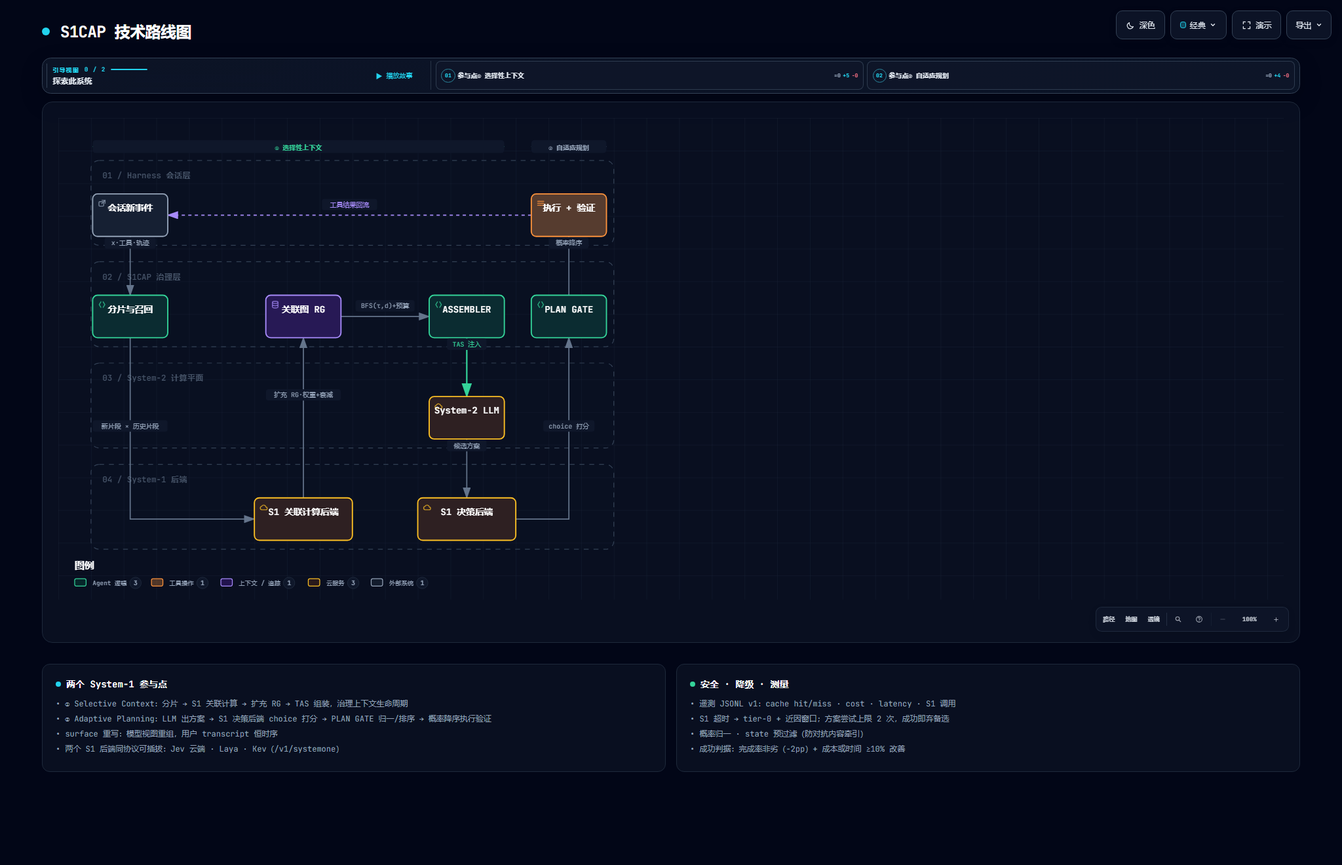
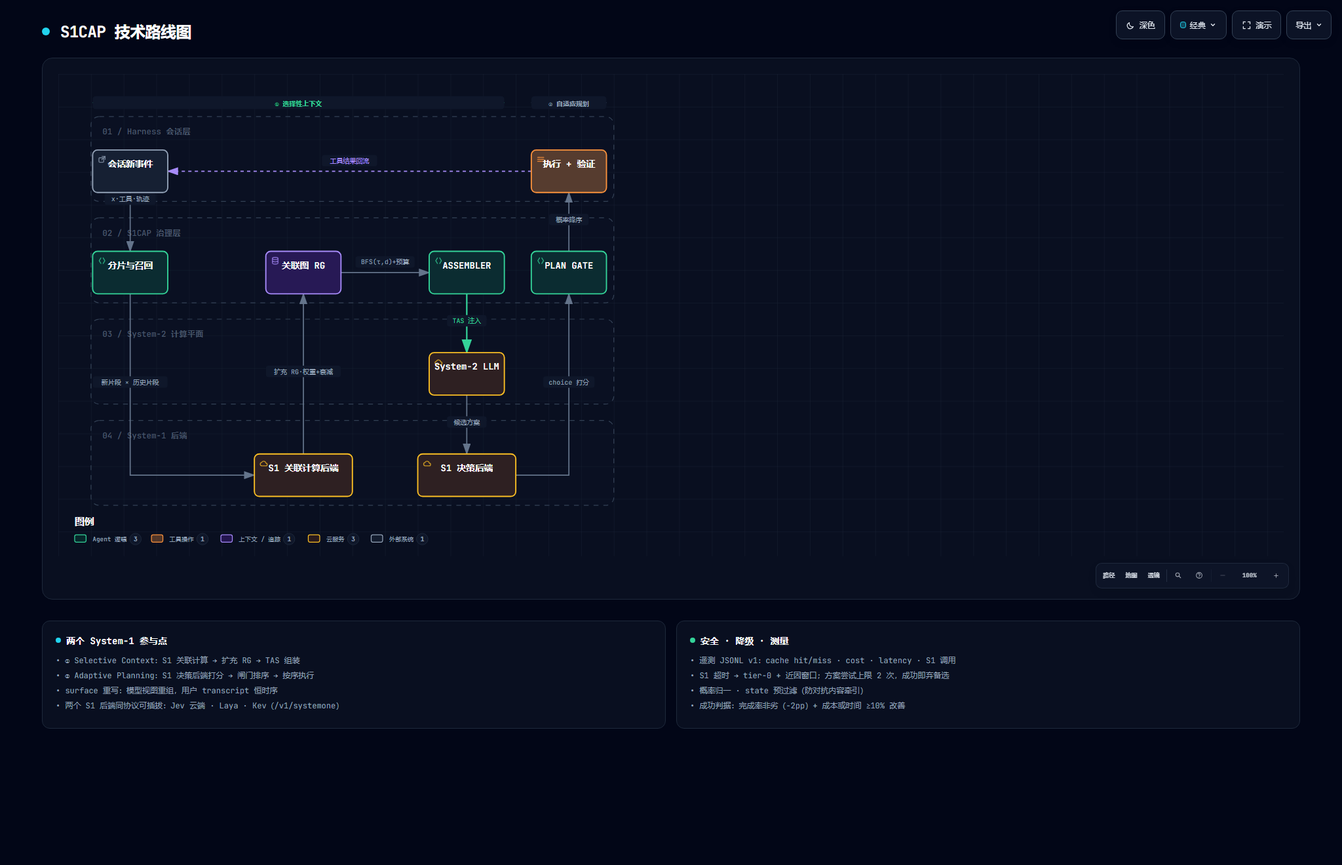
fix(figures): free vertical space + center edge labels on their runs
- remove meta.views (guided-view strip cost 61px of layout height) and shorten two
  card lines that wrapped: diagram container 478px -> 541px, SVG 1025x403 -> 1186x466 (+16%)
- labels on vertical runs were anchored to the midpoint of a degenerate sub-segment
  (routes contain zero-length jogs), landing off-centre and under the arrowhead;
  explicit labelAt at each run midpoint for e4/e5/e7/e9
  verified in-browser: all five vertical labels within 2.5px of the run centre,
  '概率降序' mask no longer intersects the arrowhead

diff --git a/docs/figures/s1cap-technical-route.html b/docs/figures/s1cap-technical-route.html
@@ -4959,7 +4959,7 @@
       </div>
     </div>
 
-    <script id="archify-guided-views-data" type="application/json">[{"id":"selective-context","label":"参与点① 选择性上下文","focus":["x-event","segrec","s1assoc","rg","assembler"],"note":"关联图召回与 TAS 组装——治理上下文生命周期"},{"id":"adaptive-planning","label":"参与点② 自适应规划","focus":["llm","plangate","s1decide","execute"],"note":"choice 概率打分与按序执行验证——治理决策优先级"}]</script>
+    <script id="archify-guided-views-data" type="application/json">[]</script>
 
     <script id="archify-i18n-data" type="application/json">{"locale":"zh-CN","messages":{"viewer.kind.frontend":"前端","viewer.kind.backend":"后端","viewer.kind.database":"数据库","viewer.kind.cloud":"云服务","viewer.kind.security":"安全","viewer.kind.messagebus":"消息总线","viewer.kind.external":"外部系统","viewer.kind.neutral":"中性","viewer.kind.node":"节点","viewer.kind.start":"开始","viewer.kind.active":"活动","viewer.kind.waiting":"等待","viewer.kind.decision":"决策","viewer.kind.success":"成功","viewer.kind.failure":"失败","viewer.toolbar.actions":"图表操作","viewer.theme.toggle.title":"切换主题（T）","viewer.theme.toggle":"切换颜色主题","viewer.theme.dark":"深色","viewer.theme.light":"浅色","viewer.preset.choose.title":"选择视觉风格（S 循环切换）","viewer.preset.choose":"选择视觉风格","viewer.preset.style":"风格","viewer.preset.menu":"视觉风格","viewer.preset.identity":"视觉表达","viewer.preset.cycles":"S 循环切换","viewer.preset.classic":"经典","viewer.preset.classic.short":"经典","viewer.preset.classic.hint":"稳定的技术默认风格","viewer.preset.flow":"信号流","viewer.preset.flow.short":"流动","viewer.preset.flow.hint":"突出动态流向","viewer.preset.blueprint":"蓝图","viewer.preset.blueprint.hint":"工程评审","viewer.preset.editorial":"编辑风格","viewer.preset.editorial.hint":"适合发布与上线说明","viewer.preset.badge.signalFlow":"信号流","viewer.preset.badge.blueprint":"蓝图 / 修订 01","viewer.preset.badge.editorial":"编辑风格 / 现场笔记","viewer.preset.badge.editorialPlate":"ARCHIFY / 图版 04","viewer.preset.current":"当前视觉风格：{style}。选择视觉风格","viewer.motion.live":"动态","viewer.motion.still":"静态","viewer.motion.pause":"暂停动效","viewer.motion.resume":"恢复动效","viewer.motion.reduced":"已根据减少动态效果偏好暂停动效","viewer.motion.hidden":"页面不可见时已暂停动效","viewer.motion.yielding":"暂停动效；当前让位于{owner}","viewer.motion.yielding.title":"动态预览已启用 · 正在让位于{owner}","viewer.owner.story":"引导故事","viewer.owner.chapter":"当前章节","viewer.owner.chapterPreview":"章节差异预览","viewer.owner.handoff":"章节交接","viewer.owner.route":"路径探测","viewer.owner.lens":"语义透镜","viewer.owner.relationship":"关系预览","viewer.owner.intent":"意图追踪","viewer.owner.focus":"语义聚焦","viewer.owner.legend":"图例预览","viewer.owner.reader":"读者交互","viewer.present.enter":"进入演示模式","viewer.present.enter.title":"演示模式（F）","viewer.present.exit":"退出演示模式","viewer.present.exit.title":"退出演示模式（F 或 Escape）","viewer.present.present":"演示","viewer.present.exit.label":"退出","viewer.export.button":"导出","viewer.export.button.title":"导出图表（E）","viewer.export.diagram":"导出图表","viewer.export.menu":"导出","viewer.export.subtitle":"便携、整洁的输出","viewer.export.share":"分享","viewer.export.shareCard":"分享卡片","viewer.export.routeShareCard":"路径分享卡片","viewer.export.reachShareCard":"可达范围分享卡片","viewer.export.copyShareCard":"复制分享卡片","viewer.export.copyDiagram":"复制图表","viewer.export.clipboardPng":"复制 PNG 到剪贴板","viewer.export.raster":"位图","viewer.export.image":"图像","viewer.export.lossless":"无损图像","viewer.export.compact":"紧凑图像","viewer.export.modern":"现代图像格式","viewer.export.vectorMotion":"矢量与动效","viewer.export.vectorMotion.heading":"矢量与动效","viewer.export.editable":"可编辑矢量图","viewer.export.motion6s":"6 秒动效","viewer.export.unsupported":"当前浏览器不支持","viewer.export.clipboardUnsupported":"当前浏览器不支持写入图片剪贴板","viewer.export.clipboardUnsupported.period":"当前浏览器不支持写入图片剪贴板。","viewer.export.clipboardUnsupported.short":"此浏览器不支持写入图片剪贴板。","viewer.export.motionUnavailable":"当前浏览器无法录制动效","viewer.export.webmUnavailable":"当前浏览器不支持 WebM","viewer.export.failed":"导出失败：{message}","viewer.export.unknownVariant":"未知的分享卡片类型：{variant}","viewer.export.routeRequired":"请先追踪路径，再导出路径分享卡片","viewer.export.reachRequired":"请先追踪编写可达范围，再导出可达范围分享卡片","viewer.export.unknown":"未知错误","viewer.export.routeFailed":"路径分享卡片导出失败：{message}","viewer.export.reachFailed":"可达范围分享卡片导出失败：{message}","viewer.export.copyFailed":"复制失败：{message}","viewer.export.copiedPng":"已将 PNG 复制到剪贴板","viewer.export.copiedShare":"已复制分享卡片","viewer.export.downloadedShare":"已下载分享卡片","viewer.export.downloadedRoute":"已下载路径分享卡片","viewer.export.downloadedReach":"已下载可达范围分享卡片","viewer.export.downloadedWebm":"已下载 WebM","viewer.export.recording":"正在录制 6 秒动效…","viewer.export.card.routeSummary.one":"路径：{source} → {target} · {count} 个有向跳转","viewer.export.card.routeSummary.other":"路径：{source} → {target} · {count} 个有向跳转","viewer.export.card.reachSummary":"从{origin}开始的编写{direction} · {nodes} · {links} · 最深 {hops}","viewer.export.card.node.one":"{count} 个节点","viewer.export.card.node.other":"{count} 个节点","viewer.export.card.link.one":"{count} 条连接","viewer.export.card.link.other":"{count} 条连接","viewer.export.card.hop.one":"{count} 跳","viewer.export.card.hop.other":"{count} 跳","viewer.export.card.routeBadge":"ARCHIFY · 路径 · {hops}","viewer.export.card.reachBadge":"ARCHIFY · {direction}可达范围","viewer.export.card.defaultBadge":"ARCHIFY · {preset} · {theme}","viewer.export.direction.upstream":"上游","viewer.export.direction.downstream":"下游","viewer.export.error.canvasUnavailable":"无法为{label}使用画布","viewer.export.error.contextUnavailable":"无法为{label}创建二维画布上下文","viewer.export.error.toBlobUnavailable":"{label}无法使用 canvas.toBlob","viewer.export.error.toBlobNull":"{label}的 canvas.toBlob 未返回数据","viewer.export.error.variantsCombined":"无法同时组合多种分享卡片类型","viewer.export.error.viewerState":"分享卡片导出无法移除临时 Viewer 状态","viewer.export.error.routeState":"路径卡片导出无法安全保留已解析路径","viewer.export.error.reachState":"可达范围卡片导出无法安全保留编写的可达范围","viewer.export.error.webmRequirements":"WebM 动效导出需要追踪动画及浏览器 MediaRecorder 支持","viewer.export.error.mediaRecorder":"MediaRecorder 录制失败","viewer.export.error.emptyWebm":"MediaRecorder 生成了空的 WebM","viewer.export.error.webmBackground":"无法为 WebM 导出加载 SVG 背景","viewer.guided.region":"图表引导视图","viewer.guided.previous":"上一个引导视图","viewer.guided.previous.title":"上一个引导视图（[）","viewer.guided.next":"下一个引导视图","viewer.guided.next.title":"下一个引导视图（]）","viewer.guided.views":"引导视图","viewer.guided.explore":"探索此系统","viewer.guided.intro":"沿精选路径逐步查看，而不改变源图表。","viewer.guided.trail":"故事轨迹","viewer.guided.beat":"节点","viewer.guided.nextBeat":"下一步","viewer.guided.play":"播放引导故事","viewer.guided.play.title":"播放引导故事（P）","viewer.guided.pause":"暂停引导故事","viewer.guided.pause.title":"暂停引导故事（P）","viewer.guided.replay":"重播引导故事","viewer.guided.replay.title":"重播引导故事（P）","viewer.guided.playStory":"播放故事","viewer.guided.pauseStory":"暂停","viewer.guided.replayStory":"重播故事","viewer.guided.motionUnavailable":"静态模式下无法播放故事","viewer.guided.enableMotion":"切换为动态模式以播放引导故事","viewer.guided.selectBeatLink":"选择故事节点以复制其精确链接","viewer.guided.copyMoment":"复制此刻","viewer.guided.momentCopied":"已复制时刻链接","viewer.guided.momentCopyFailed":"无法复制故事时刻链接","viewer.guided.copied":"已复制","viewer.guided.copyFailed":"复制失败","viewer.guided.showAll":"显示全部","viewer.guided.showAll.aria":"显示完整图表","viewer.guided.chapters":"故事章节","viewer.guided.storyTrail":"{label}的故事轨迹：{count} 个节点","viewer.guided.chapter.open":"打开第 {index}/{total} 章：{label}，{count} 个停靠点","viewer.guided.chapter.current":"当前第 {index}/{total} 章：{label}，{count} 个停靠点","viewer.guided.chapter.selectedNodes":"已选择 {count} 个节点","viewer.guided.chapter.stops":"{count} 个停靠点","viewer.guided.chapter.stop.one":"{count} 个停靠点","viewer.guided.chapter.stop.other":"{count} 个停靠点","viewer.guided.chapter.current.title":"{label} — 当前章节，{count} 个停靠点","viewer.guided.chapter.delta.expanded":"{stay} 个保留，{enter} 个进入，{leave} 个离开","viewer.guided.chapter.delta.aria":"打开第 {index}/{total} 章：{label}。章节聚焦差异：{delta}","viewer.guided.chapter.delta.title":"{label} — 章节聚焦 {delta}","viewer.guided.handoff":"{from} → {to} · 经由{label}","viewer.guided.share.chapter":"章节 {index} / {total}","viewer.guided.share.initial":"章节 01 / 01","viewer.guided.share.default":"引导章节","viewer.guided.state.ready":"就绪","viewer.guided.state.playing":"播放中","viewer.guided.state.settled":"已完成","viewer.guided.state.paused":"已暂停","viewer.guided.state.pinned":"已固定","viewer.guided.state.still":"静态","viewer.guided.share.step":"步骤 {index} / {total} · {label}","viewer.guided.share.staticMoment":"{step} · 静态时刻","viewer.guided.share.complete":"{count} 个步骤已完成 · {note}","viewer.guided.share.settled":"路径已稳定，可供阅读。","viewer.guided.share.staticPath":"{count} 个步骤 · 静态路径","viewer.guided.share.ready":"{count} 个步骤 · 就绪","viewer.guided.share.aria":"{state}，第 {index}/{total} 章：{label}。{beat}。{route}","viewer.guided.beat.start":"节点 {index} / {total} · {label} · 起点","viewer.guided.beat.forward":"节点 {index} / {total} · {from} → {to}","viewer.guided.beat.reverse":"节点 {index} / {total} · {from} → {to} · 反向编写连接","viewer.guided.beat.multiple":"节点 {index} / {total} · {from} ⇄ {to} · {count} 条编写连接","viewer.guided.beat.group":"节点 {index} / {total} · {from} · {to} · 分组 · 无直接连接","viewer.guided.beat.aria.prefix":"故事节点 {index}/{total}：{label}。","viewer.guided.beat.aria.start":"起点。","viewer.guided.beat.aria.forward":"从{from}经一条正向编写关系到达。","viewer.guided.beat.aria.reverse":"从{from}出发；编写关系实际由{to}指向{from}。","viewer.guided.beat.aria.multiple":"从{from}经 {count} 条编写关系到达；不使用任意动效。","viewer.guided.beat.aria.group":"与{from}分组展示，没有直接编写关系。","viewer.guided.caption.start":"起点","viewer.guided.caption.grouped":"分组过渡 · 无直接编写连接","viewer.guided.caption.more":" +另外 {count} 条","viewer.guided.caption.reverse":"反向编写关系","viewer.guided.caption.relationships":"{count} 条编写关系","viewer.guided.caption.relationship":"编写关系","viewer.guided.caption.direction":"编写方向：{from} → {to}","viewer.guided.caption.starting":"编写起点","viewer.guided.beatLink":"复制当前故事时刻链接：第 {index}/{total} 个节点：{label}","viewer.guided.noStory":"此图表没有编写引导故事。","viewer.guide.eyebrow":"图表指南","viewer.guide.close":"关闭图表指南","viewer.guide.inspecting":"正在检查已编译语义","viewer.guide.actions":"图表探索操作","viewer.guide.find":"查找任意节点","viewer.guide.find.hint":"搜索标签、职责、类型和稳定 ID。","viewer.guide.route":"追踪路径","viewer.guide.route.aria":"追踪有向路径","viewer.guide.route.hint":"查看两个语义节点如何按编写方向连接。","viewer.guide.map":"查看完整系统","viewer.guide.map.hint":"打开带实时视口和稳定节点的语义雷达。","viewer.guide.lens":"比较语义类型","viewer.guide.lens.hint":"统计角色、显示流量并比较直接编写的连接。","viewer.guide.story":"播放引导故事","viewer.guide.story.hint":"浏览已编写的章节和真实关系。","viewer.guide.present":"进入演示模式","viewer.guide.present.hint":"让实时图表占满视口，同时不改变导出。","viewer.guide.shortcuts":"其他键盘快捷键","viewer.guide.shortcut.export":"导出","viewer.guide.shortcut.theme":"主题","viewer.guide.shortcut.style":"风格","viewer.guide.shortcut.reset":"重置","viewer.guide.shortcut.zoomIn":"放大","viewer.guide.shortcut.zoomOut":"缩小","viewer.guide.shortcut.close":"关闭","viewer.guide.facts":"{nodes} · {relationships} · {views}","viewer.guide.fact.node.one":"{count} 个语义节点","viewer.guide.fact.node.other":"{count} 个语义节点","viewer.guide.fact.relationship.one":"{count} 条关系","viewer.guide.fact.relationship.other":"{count} 条关系","viewer.guide.fact.view.one":"{count} 个引导视图","viewer.guide.fact.view.other":"{count} 个引导视图","viewer.guide.story.available.one":"浏览 {count} 个已编写章节及其真实关系。","viewer.guide.story.available.other":"浏览 {count} 个已编写章节及其真实关系。","viewer.guide.story.unavailable":"此图表没有编写引导故事。","viewer.guide.open":"打开图表指南","viewer.guide.noStory":"此图表没有编写引导故事。","viewer.finder.title":"查找节点","viewer.finder.close":"关闭节点查找器","viewer.finder.placeholder":"搜索标签或 ID","viewer.finder.search":"搜索图表节点","viewer.finder.results":"图表节点","viewer.finder.empty":"没有匹配的节点","viewer.finder.result.focus":"聚焦{label}","viewer.finder.result.routeStart":"选择{label}作为路径起点","viewer.finder.result.routeTarget":"选择{label}作为路径终点，{links}","viewer.finder.status.empty":"没有匹配的节点","viewer.finder.status.count.one":"{count} 个匹配节点","viewer.finder.status.count.other":"{count} 个匹配节点","viewer.finder.noun.nodes":"个节点","viewer.finder.link.one":"{count} 条连接","viewer.finder.link.other":"{count} 条连接","viewer.finder.result.focus.one":"聚焦{label}，{count} 条相关连接","viewer.finder.result.focus.other":"聚焦{label}，{count} 条相关连接","viewer.finder.status.filtered":"{visible}/{available} {noun}","viewer.finder.status.all":"{available} {noun}","viewer.passport.eyebrow":"语义护照","viewer.passport.metadata":"节点元数据","viewer.passport.evidence":"已验证的源代码证据","viewer.passport.verified":"已验证来源","viewer.passport.reach":"编写可达范围","viewer.passport.reach.trace":"追踪编写的可达性","viewer.passport.upstream":"上游","viewer.passport.downstream":"下游","viewer.passport.upstream.trace":"追踪上游编写可达性","viewer.passport.downstream.trace":"追踪下游编写可达性","viewer.passport.close":"关闭语义护照","viewer.passport.copy":"复制链接","viewer.passport.copy.focus":"复制聚焦节点的链接","viewer.passport.relations":"关系","viewer.passport.relations.show":"显示关联关系","viewer.passport.relations.hide":"隐藏关联关系","viewer.passport.relations.list":"关联关系","viewer.passport.copyRelation":"复制关系","viewer.passport.copyNode":"复制节点","viewer.passport.copyPinned":"复制固定关系的链接","viewer.passport.copySource":"复制来源节点的链接","viewer.passport.copy.focused.success":"已复制聚焦节点链接","viewer.passport.copy.pinned.success":"已复制固定关系链接","viewer.passport.copy.focused.failed":"无法复制聚焦节点链接","viewer.passport.copy.pinned.failed":"无法复制固定关系链接","viewer.passport.relationship.none":"没有关联关系","viewer.passport.relationship.count.one":"{count} 条关系","viewer.passport.relationship.count.other":"{count} 条关系","viewer.passport.relationship.show.one":"显示 {count} 条关联关系","viewer.passport.relationship.show.other":"显示 {count} 条关联关系","viewer.passport.relationship.summary":"{out} 条出向 · {in} 条入向{loops}","viewer.passport.relationship.loops":" · {count} 条自环","viewer.passport.relationship.explorer":"直接关系浏览器","viewer.passport.relationship.help":"使用方向键浏览关系。按 Enter 或空格键固定详情；按 Escape 清除。","viewer.passport.relationship.loopsBack":"回环","viewer.passport.relationship.connectsTo":"连接到","viewer.passport.relationship.connectsFrom":"连接自","viewer.passport.relationship.pinned":"已固定关系 · {from} → {to} · {label}","viewer.passport.relationship.inspect":"检查第 {index}/{total} 条关系：{from} 到 {to}，{label}。按 Enter 查看详情。","viewer.passport.relationship.group.out":"出向","viewer.passport.relationship.group.in":"入向","viewer.passport.relationship.group.loop":"自环","viewer.passport.relationship.row":"{group}：{relationship}，{neighbor}","viewer.passport.relationship.direction.out":"出 →","viewer.passport.relationship.direction.in":"← 入","viewer.passport.relationship.direction.loop":"自环","viewer.passport.sourceCount.one":"{count} 个已验证来源引用","viewer.passport.sourceCount.other":"{count} 个已验证来源引用","viewer.passport.sourceMarker":"来源","viewer.passport.beacon.one":"{count} 个已验证来源；聚焦此节点以检查","viewer.passport.beacon.other":"{count} 个已验证来源；聚焦此节点以检查","viewer.passport.repository.open":"打开已验证的仓库修订版本 {revision}","viewer.passport.source.open":"打开修订版本 {revision} 中已验证的来源 {path}","viewer.passport.source.openLink":"打开 ↗","viewer.passport.reach.upstream.one":"追踪 {count} 个上游编写节点","viewer.passport.reach.upstream.other":"追踪 {count} 个上游编写节点","viewer.passport.reach.downstream.one":"追踪 {count} 个下游编写节点","viewer.passport.reach.downstream.other":"追踪 {count} 个下游编写节点","viewer.passport.reach.noUpstream":"没有上游编写节点","viewer.passport.reach.noDownstream":"没有下游编写节点","viewer.passport.reach.status":"{direction} · {nodes} 个节点 · {links} 条连接 · 最深 {hops} 跳","viewer.route.eyebrow":"路径探测","viewer.route.start":"选择起点节点","viewer.route.start.find":"查找起点","viewer.route.start.find.aria":"查找路径起点","viewer.route.copy":"复制链接","viewer.route.copy.aria":"复制已追踪路径的链接","viewer.route.clear":"清除","viewer.route.clear.aria":"清除路径探测","viewer.route.traced":"已追踪路径","viewer.route.pickTwo":"在图表中选择两个语义节点","viewer.route.pickOne":"在图表中选择一个语义节点","viewer.route.controls":"路径旅程控制","viewer.route.previous":"上一个路径位置","viewer.route.play":"播放路径旅程","viewer.route.pause":"暂停路径旅程","viewer.route.replay":"重播路径旅程","viewer.route.next":"下一个路径位置","viewer.route.journey":"旅程","viewer.route.pause.label":"暂停","viewer.route.replay.label":"重播","viewer.route.overview":"总览","viewer.route.overview.aria":"显示完整路径总览","viewer.route.instructions":"先选择来源，再选择目标；方向很重要。","viewer.route.destination":"选择从{label}出发的目标","viewer.route.destination.find":"查找目标","viewer.route.destination.find.aria":"查找可达的路径目标","viewer.route.differentDestination":"选择其他目标","viewer.route.distinct":"一条路径需要两个不同的语义节点。","viewer.route.unreachable":"没有通往{label}的有向路径","viewer.route.unreachable.detail":"从{source}无法到达{target}。请选择高亮的目标。","viewer.route.start.instructions":"选择来源。下一步只会显示有向可达的目标。","viewer.route.copy.success":"已复制路径链接","viewer.route.copy.failed":"无法复制路径链接","viewer.route.position":"路径位置 {index}/{total}：{label}","viewer.route.step":"第 {index}/{total} 步 · {phase} · {label}","viewer.route.motionRequired":"自动旅程需要动态模式","viewer.route.trigger.clear":"清除已追踪路径","viewer.route.overview.status":"{nodes} · {hops} · 最短编写路径","viewer.route.overview.node.one":"{count} 个节点","viewer.route.overview.node.other":"{count} 个节点","viewer.route.overview.hop.one":"{count} 个有向跳转","viewer.route.overview.hop.other":"{count} 个有向跳转","viewer.route.phase.playing":"播放中","viewer.route.phase.complete":"已完成","viewer.route.phase.inspecting":"检查中","viewer.route.destination.count.one":"有 {count} 个有向目标可用。请选择高亮节点。","viewer.route.destination.count.other":"有 {count} 个有向目标可用。请选择高亮节点。","viewer.route.noOutgoing":"此处没有可用的出向路径。请清除后选择其他来源。","viewer.route.result.title":"{source} 到 {target}","viewer.route.finder.source.title":"选择路径起点","viewer.route.finder.source.placeholder":"搜索路径来源","viewer.route.finder.source.empty":"没有匹配的路径来源","viewer.route.finder.source.results":"可作为路径起点的节点","viewer.route.finder.source.noun":"个路径来源","viewer.route.finder.source.badge":"起点","viewer.route.finder.target.title":"从{label}出发的目标","viewer.route.finder.target.placeholder":"搜索可达目标","viewer.route.finder.target.empty":"没有匹配的可达目标","viewer.route.finder.target.results":"可达路径目标","viewer.route.finder.target.noun":"个可达目标","viewer.route.hop.one":"{count} 跳","viewer.route.hop.other":"{count} 跳","viewer.lens.eyebrow":"语义透镜","viewer.lens.title":"比较系统角色","viewer.lens.close":"关闭语义透镜","viewer.lens.instruction":"最多选择两种语义类型。选择一种可显示其真实流量；选择两种只比较直接编写的关系。","viewer.lens.kinds":"语义类型","viewer.lens.choose":"选择一种类型以检查其节点和相连关系。","viewer.lens.copy":"复制语义透镜链接","viewer.lens.clear":"清除语义透镜","viewer.lens.open":"打开语义透镜","viewer.lens.openActive":"打开当前语义透镜","viewer.lens.legend":"语义图例","viewer.lens.legend.inspect.one":"检查{label}，{count} 个节点","viewer.lens.legend.inspect.other":"检查{label}，{count} 个节点","viewer.lens.kind.count.one":"{label}，{count} 个节点","viewer.lens.kind.count.other":"{label}，{count} 个节点","viewer.lens.compare.one":"{first} → {second}：{forward} · {second} → {first}：{reverse} · 共 {count} 条直接关系","viewer.lens.compare.other":"{first} → {second}：{forward} · {second} → {first}：{reverse} · 共 {count} 条直接关系","viewer.lens.single":"{nodes} · {relationships} · 已连接节点保持可见","viewer.lens.node.one":"{count} 个{label}节点","viewer.lens.node.other":"{count} 个{label}节点","viewer.lens.relationship.one":"{count} 条相连关系","viewer.lens.relationship.other":"{count} 条相连关系","viewer.radar.title":"语义雷达","viewer.radar.building":"正在构建总览","viewer.radar.openFull":"打开完整语义雷达","viewer.radar.open":"打开雷达","viewer.radar.close":"关闭语义雷达","viewer.radar.surface":"图表总览。点击节点进行聚焦，或使用方向键平移。","viewer.radar.click":"点击节点","viewer.radar.drag":"拖动平移","viewer.radar.space":"语义雷达需要更多地图可见空间。","viewer.radar.nodes":"语义图表雷达节点","viewer.radar.focus":"从语义雷达聚焦{label}","viewer.radar.status":"{count} 个节点 · {viewport}","viewer.radar.fullMap":"{count} 个节点 · 完整地图","viewer.radar.compacted":"已收紧雷达，避免遮挡语义护照或地图控件。","viewer.radar.cancelWaiting":"取消等待更多地图空间的语义雷达","viewer.radar.needsSpace":"语义雷达需要更多可见地图空间","viewer.radar.viewport.full":"完整地图","viewer.radar.viewport.width":"宽度 {percent}%","viewer.radar.viewport.scale":"视口 {percent}%","viewer.nav.controls":"图表视图控制","viewer.nav.route":"追踪有向路径","viewer.nav.route.title":"追踪路径（R）","viewer.nav.route.short":"路径","viewer.nav.radar":"打开语义雷达","viewer.nav.radar.title":"语义雷达（M）","viewer.nav.radar.short":"地图","viewer.nav.lens":"打开语义透镜","viewer.nav.lens.title":"语义透镜（L）","viewer.nav.lens.short":"透镜","viewer.nav.find":"查找节点","viewer.nav.find.title":"查找节点（/）","viewer.nav.guide":"打开图表指南","viewer.nav.guide.title":"图表指南（?）","viewer.nav.zoomOut":"缩小","viewer.nav.zoomOut.title":"缩小（-）","viewer.nav.reset":"重置图表视图","viewer.nav.reset.title":"重置视图（0）","viewer.nav.read":"阅读","viewer.nav.zoomIn":"放大","viewer.nav.zoomIn.title":"放大（+）","viewer.nav.camera":"{hint}。重置图表视图","viewer.nav.camera.title":"{semantic}{hint} · 重置视图（0）","viewer.nav.camera.semantic":"语义相机已启用 · ","viewer.nav.level.map":"概览","viewer.nav.level.read":"阅读","viewer.nav.level.full":"完整","viewer.nav.level.auto":"自动","viewer.nav.detail.map":"放大以显示关系标签和节点上下文","viewer.nav.detail.read":"再次放大以显示标签和注释","viewer.nav.detail.full":"完整图表详情","viewer.intent.summary":"{label}。{out} 条出向，{in} 条入向{loops}。共 {total} 条连接。按 Enter 查看详情。","viewer.intent.loops":"，{count} 条自环","viewer.common.copied":"已复制","viewer.common.copyFailed":"复制失败","viewer.common.copyLink":"复制链接","viewer.common.clear":"清除","viewer.common.close":"关闭"}}</script>
     <div class="guided-views no-print" id="guided-views" hidden aria-label="图表引导视图">
@@ -5174,24 +5174,24 @@
           <text x="400" y="233" class="t-muted" font-size="8" text-anchor="middle">BFS(τ,d)+预算</text>
         </g>
         <g data-detail="context" data-edge-from="assembler" data-edge-to="llm" data-edge-label="TAS 注入" data-edge-key="3" data-edge-id="e4">
-          <rect x="475.8" y="270" width="48.4" height="14" rx="3" class="c-mask"/>
-          <text x="500" y="280" class="t-backend" font-size="8" text-anchor="middle">TAS 注入</text>
+          <rect x="475.8" y="295" width="48.4" height="14" rx="3" class="c-mask"/>
+          <text x="500" y="305" class="t-backend" font-size="8" text-anchor="middle">TAS 注入</text>
         </g>
         <g data-detail="context" data-edge-from="llm" data-edge-to="s1decide" data-edge-label="候选方案" data-edge-key="4" data-edge-id="e5">
-          <rect x="475.8" y="394" width="48.4" height="14" rx="3" class="c-mask"/>
-          <text x="500" y="404" class="t-muted" font-size="8" text-anchor="middle">候选方案</text>
+          <rect x="475.8" y="419" width="48.4" height="14" rx="3" class="c-mask"/>
+          <text x="500" y="429" class="t-muted" font-size="8" text-anchor="middle">候选方案</text>
         </g>
         <g data-detail="context" data-edge-from="plangate" data-edge-to="execute" data-edge-label="概率降序" data-edge-key="5" data-edge-id="e7">
-          <rect x="600.8" y="146" width="48.4" height="14" rx="3" class="c-mask"/>
-          <text x="625" y="156" class="t-muted" font-size="8" text-anchor="middle">概率降序</text>
+          <rect x="600.8" y="171" width="48.4" height="14" rx="3" class="c-mask"/>
+          <text x="625" y="181" class="t-muted" font-size="8" text-anchor="middle">概率降序</text>
         </g>
         <g data-detail="context" data-edge-from="execute" data-edge-to="x-event" data-edge-label="工具结果回流" data-edge-key="6" data-edge-id="e8">
           <rect x="322.7" y="99" width="67.6" height="14" rx="3" class="c-mask"/>
           <text x="356.5" y="109" class="t-database" font-size="8" text-anchor="middle">工具结果回流</text>
         </g>
         <g data-detail="context" data-edge-from="s1assoc" data-edge-to="rg" data-edge-label="扩充 RG·权重+衰减" data-edge-key="7" data-edge-id="e9">
-          <rect x="254.2" y="332" width="91.6" height="14" rx="3" class="c-mask"/>
-          <text x="300" y="342" class="t-muted" font-size="8" text-anchor="middle">扩充 RG·权重+衰减</text>
+          <rect x="254.2" y="357" width="91.6" height="14" rx="3" class="c-mask"/>
+          <text x="300" y="367" class="t-muted" font-size="8" text-anchor="middle">扩充 RG·权重+衰减</text>
         </g>
         <g data-detail="context" data-edge-from="s1decide" data-edge-to="plangate" data-edge-label="choice 打分" data-edge-key="8" data-edge-id="e10">
           <rect x="593.6" y="370" width="62.8" height="14" rx="3" class="c-mask"/>
@@ -5414,8 +5414,8 @@
           <h3>两个 System-1 参与点</h3>
         </div>
         <ul>
-          <li>&bull; ① Selective Context：分片 → S1 关联计算 → 扩充 RG → TAS 组装，治理上下文生命周期</li>
-          <li>&bull; ② Adaptive Planning：LLM 出方案 → S1 决策后端 choice 打分 → PLAN GATE 归一/排序 → 概率降序执行验证</li>
+          <li>&bull; ① Selective Context：S1 关联计算 → 扩充 RG → TAS 组装</li>
+          <li>&bull; ② Adaptive Planning：S1 决策后端打分 → 闸门排序 → 按序执行</li>
           <li>&bull; surface 重写：模型视图重组，用户 transcript 恒时序</li>
           <li>&bull; 两个 S1 后端同协议可插拔：Jev 云端 · Laya · Kev（/v1/systemone）</li>
         </ul>
